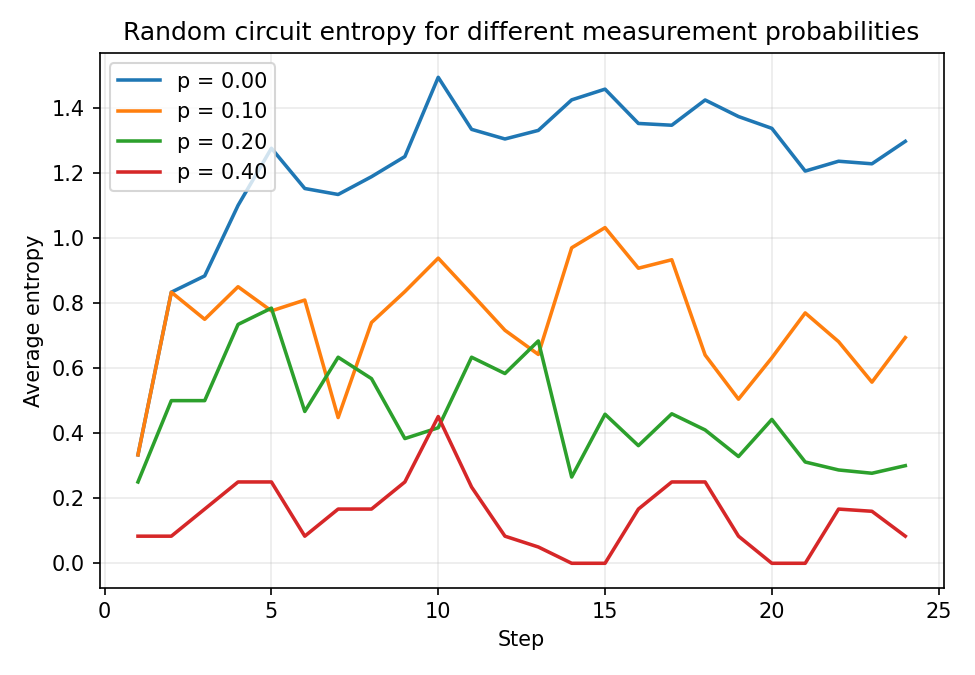
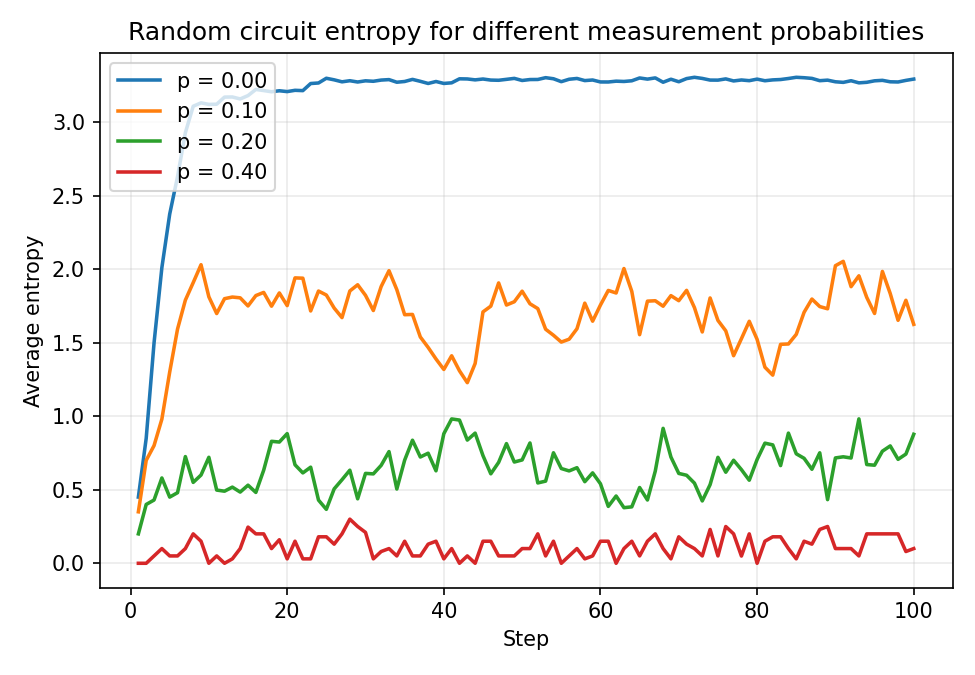
Update generated figures

diff --git a/python_workflows/experiments/run_random_circuit_comparison.py b/python_workflows/experiments/run_random_circuit_comparison.py
@@ -12,9 +12,9 @@ def main():
     output_dir = PROJECT_ROOT / "figures" / "python"
     output_dir.mkdir(parents=True, exist_ok=True)
 
-    nqubits = 4
-    nsteps = 24
-    ntrajectories = 12
+    nqubits = 8
+    nsteps = 100
+    ntrajectories = 20
     measurement_probabilities = [0.0, 0.1, 0.2, 0.4]
     seed = 21
 
